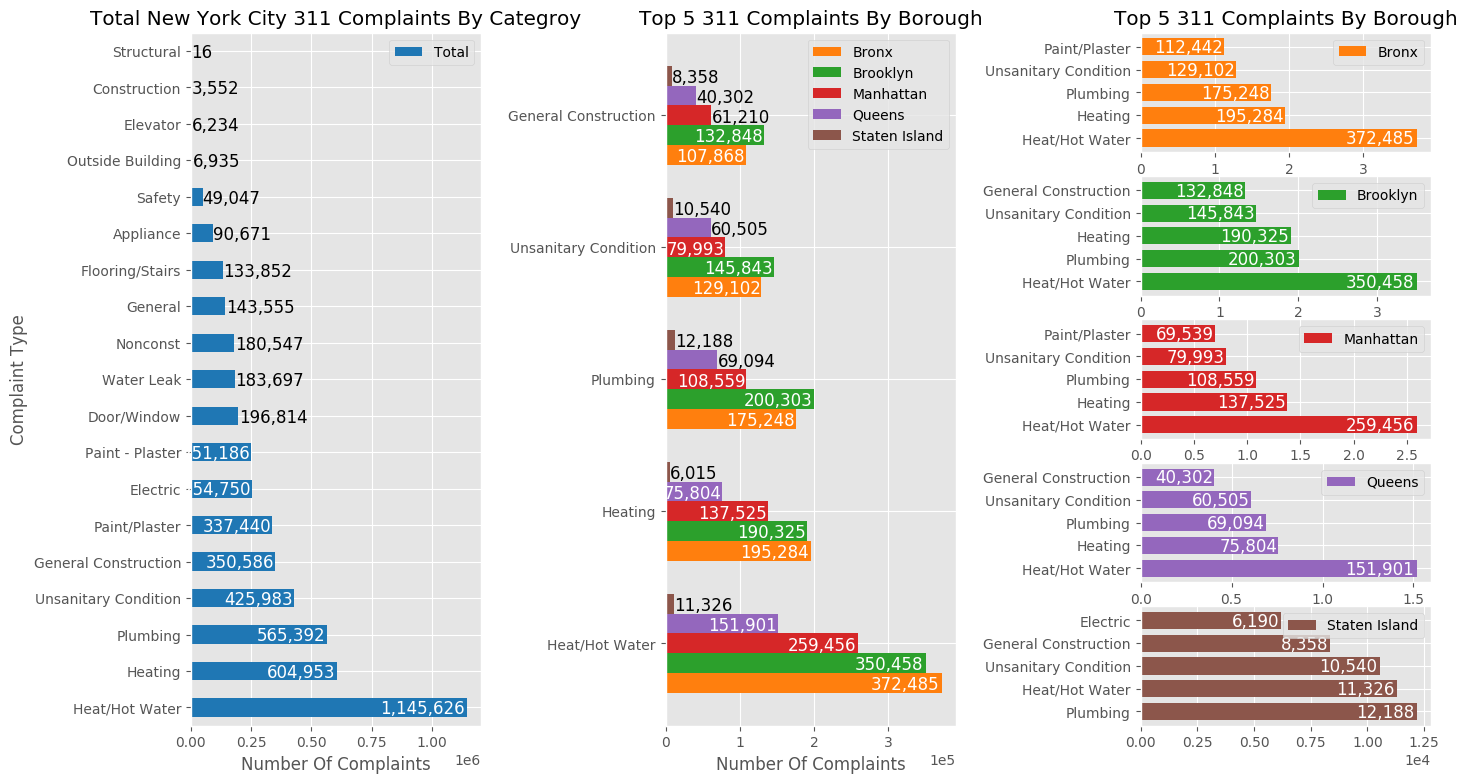
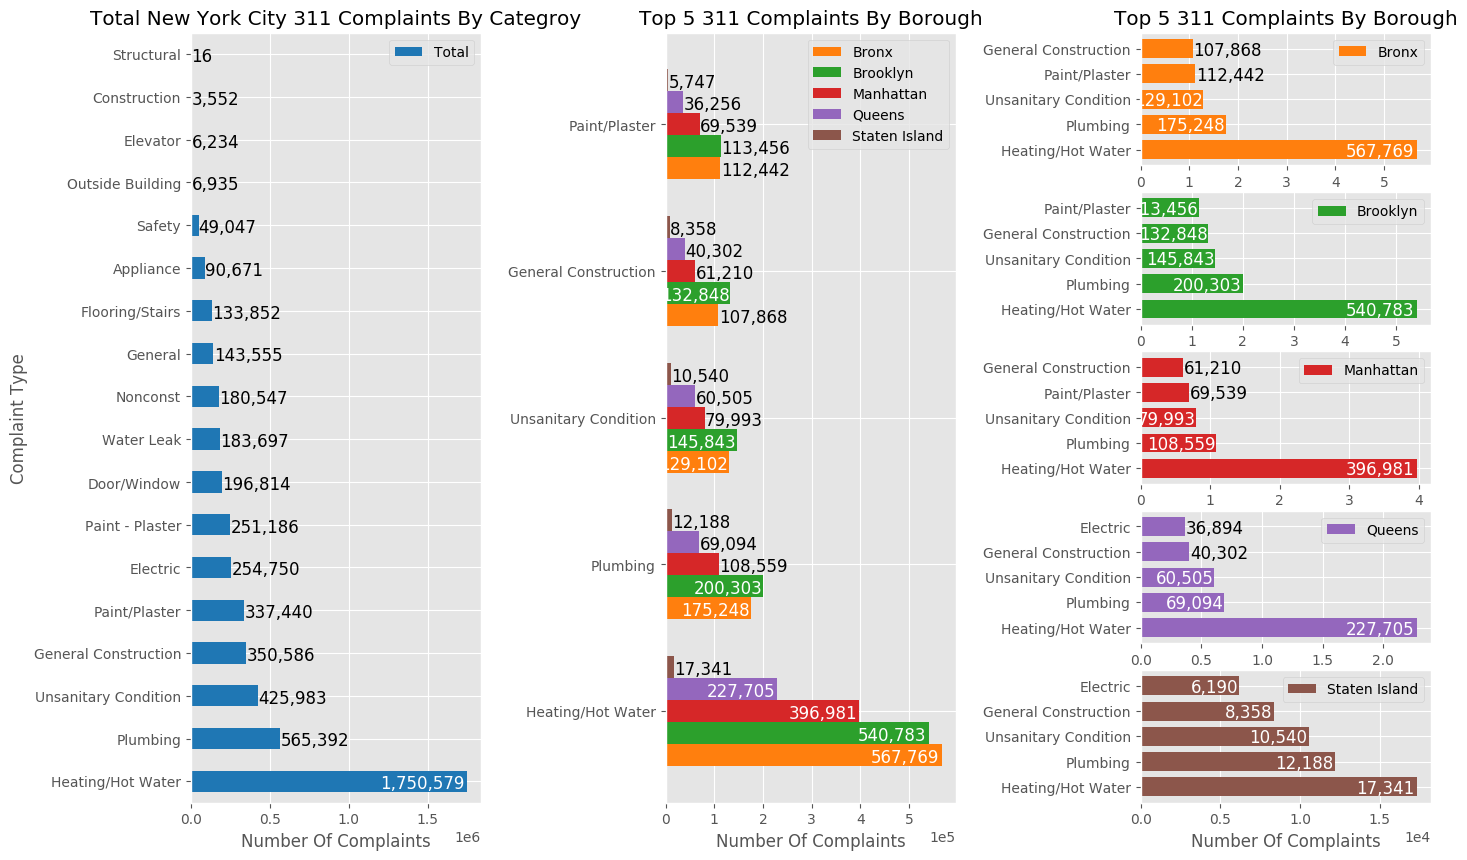
added fucntionallity allowing for two rows to be combined

diff --git a/main.py b/main.py
@@ -1,10 +1,7 @@
-# import sys
-# import types
 import os
 import numpy as np
 import pandas as pd
 import matplotlib as mpl
-# from botocore.client import Config
 import matplotlib.pyplot as plt
 from plotFuns import hBarPlots
 from plotFuns import cleanData
@@ -19,23 +16,28 @@ ny311Df = pd.read_csv(dataLoc, skipinitialspace = True, usecols = fields)
 # Variables to be used as col and row headers.
 colVar = 'borough'              # variable to be listed as column headers
 rowVar = 'complaint_type'       # variable to be listed as row headers
-colsToDrop = ['Unspecified']    # column to drop from dataframe
-totNam = 'Total'
+colDr = ['Unspecified']    # column to drop from dataframe
+
+# Name of column to be added with will be the total of all Plots
+tot = 'Total'
+
+# Index values to be combined
+combComps = {"Heating/Hot Water":['Heat/Hot Water','Heating']}
 
 # Clean the data using cleanData function
-groupdDf = cleanData(ny311Df, colVar,rowVar,colsToDrop,totNam)
+groupdDf = cleanData(ny311Df, colVar,rowVar,totNam = tot, colsToDrop = colDr, inCombVals = combComps)
 
 
 colNams = groupdDf.columns.values
-grpNams = np.setdiff1d(colNams,[totNam])
+grpNams = np.setdiff1d(colNams,[tot])
 nGrps = len(grpNams)
-
+topNum = 5
 ## Plot Parameters ##
 width = 8   # Total Width of Figure
 p1Width = 2 # Width of first large plot
 p2Width = 2 # Width of second large plot
 ttlLarge = 'Total New York City 311 Complaints by Categroy'
-ttlVal = 'Top {} 311 complaints by Borough'.format(nGrps)
+ttlVal = 'Top {} 311 complaints by Borough'.format(topNum)
 xlab = 'Number of Complaints'
 # list of colors to be used in the plot
 cols = list(mcolors.TABLEAU_COLORS.values())
@@ -44,7 +46,7 @@ blCol = cols.pop(0)
 
 
 # Create the series of subplots for figure
-fig, axs = plt.subplots(nGrps, width, figsize = (16, 9))
+fig, axs = plt.subplots(nGrps, width, figsize = (16, nGrps*2))
 gs = axs[0,0].get_gridspec()
 
 # remove the underlying axes
@@ -60,22 +62,23 @@ axrs = [fig.add_subplot(gs[i, (width - 2):width]) for i in range(nGrps)]
 
 
 # Sort the items in the dataframe first by total and then by groups
-groupdDf.sort_values(by = [totNam] + list(grpNams), inplace = True, ascending = False)
+groupdDf.sort_values(by = [tot] + list(grpNams), inplace = True, ascending = False)
 
 # Add large plot on LHS using 
-hBarPlots(groupdDf[totNam], axbig1,
-          leg = [totNam],
+hBarPlots(groupdDf[tot], axbig1,
+          leg = [tot],
           pTitle = ttlLarge,
           xAxisLab = xlab,
           yAxisLab = rowVar,
           bWidth = .5,
           cols=[blCol],
+          bwScale = 0.35
          )
 
 # Add large plot in center
 hBarPlots(groupdDf[grpNams], axbig2,
           leg = grpNams,
-          num = nGrps,
+          num = topNum,
           pTitle = ttlVal,
           xAxisLab = xlab,
           cols=cols,
@@ -87,18 +90,17 @@ for i in range(nGrps):
     groupdDf.sort_values(by = [grpNams[i]],inplace = True, ascending = False)
     if i == 0:
         ttl = ttlVal
+        xVal = xlab
+    elif i == nGrps-1:
+        xVal = xlab
     else:
         ttl = ''
-    if i == nGrps:
-        xlab = xlab
-    else:
-        xlab = ''
-
+        xVal = ''
     hBarPlots(groupdDf[grpNams[i]], axrs[i],
               leg = [grpNams[i]],
-              num = nGrps,
+              num = topNum,
               cols = cols[i],
-              xAxisLab = xlab,
+              xAxisLab = xVal,
               pTitle = ttl,
              ) 
 

diff --git a/plotFuns.py b/plotFuns.py
@@ -5,7 +5,7 @@ import matplotlib.pyplot as plt
 import matplotlib.colors as mcolors
 mpl.style.use('ggplot') # optional: for ggplot-like style
 
-def cleanData(df, colVar, rowVar, colsToDrop, totNam):
+def cleanData(df, colVar, rowVar, totNam = None, colsToDrop = None, inCombVals = None, cleanData = True):
     # Count number of 'rowVar' and group by 'colVar'.
     groupdDf = df.groupby(by = [rowVar])[colVar].value_counts()
     groupdDf = groupdDf.unstack()
@@ -19,28 +19,41 @@ def cleanData(df, colVar, rowVar, colsToDrop, totNam):
     rowDict = {str(row): str(row.title()) for row in rowNams}
     groupdDf.rename(index = rowDict, columns = colDict, inplace=True)
 
+
     # Remove columns saved in 'colsToDrop' variable
-    groupdDf.drop(colsToDrop, axis = 1, inplace = True)
+    if colsToDrop is not None:
+        groupdDf.drop(colsToDrop, axis = 1, inplace = True)
 
     # Create list of colNams
     colNams = groupdDf.columns.values
 
+    if cleanData:
+        # clean data removing any rows containing nan and non-numeric values
+        sizeBefore = groupdDf.size
+        groupdDf[colNams] = groupdDf[colNams].apply(pd.to_numeric, errors ='coerce')
+        groupdDf = groupdDf.dropna()
+        sizeAfter = groupdDf.size
 
-    # clean data removing any rows containing nan and non-numeric values
-    sizeBefore = groupdDf.size
-    groupdDf[colNams] = groupdDf[colNams].apply(pd.to_numeric, errors ='coerce')
-    groupdDf = groupdDf.dropna()
-    sizeAfter = groupdDf.size
+        print("\nCleaning deleted: {} rows\n".format(sizeBefore-sizeAfter)) 
+ 
+    # Combine any values passed to the 'inCombVals' dict value
+    if inCombVals is not None:
+        keys = list(inCombVals.keys())
+        for key in keys:
+            groupdDf.loc[key] = groupdDf.loc[inCombVals[key]].sum()
+            print(list(inCombVals[key]))
+            groupdDf.drop(list(inCombVals[key]), inplace = True)
+        
+    # Add a column with is the total of all of the values in the df
+    if totNam is not None:
+        # Add a column named Total to the end of the table
+        groupdDf[totNam] = groupdDf.sum(axis=1)
 
-    print("\nCleaning deleted: {} rows\n".format(sizeBefore-sizeAfter))
 
-    # Add a column named Total to the end of the table
-    groupdDf[totNam] = groupdDf.sum(axis=1)
-
-    # Sort columns by 'Total' and then in order of the colNams
-    groupdDf.sort_values(by = [totNam] + list(colNams),
-                         inplace = True,
-                         ascending = False
+        # Sort columns by 'Total' and then in order of the colNams
+        groupdDf.sort_values(by = [totNam] + list(colNams),
+                             inplace = True,
+                             ascending = False
                         )
     return groupdDf
 
